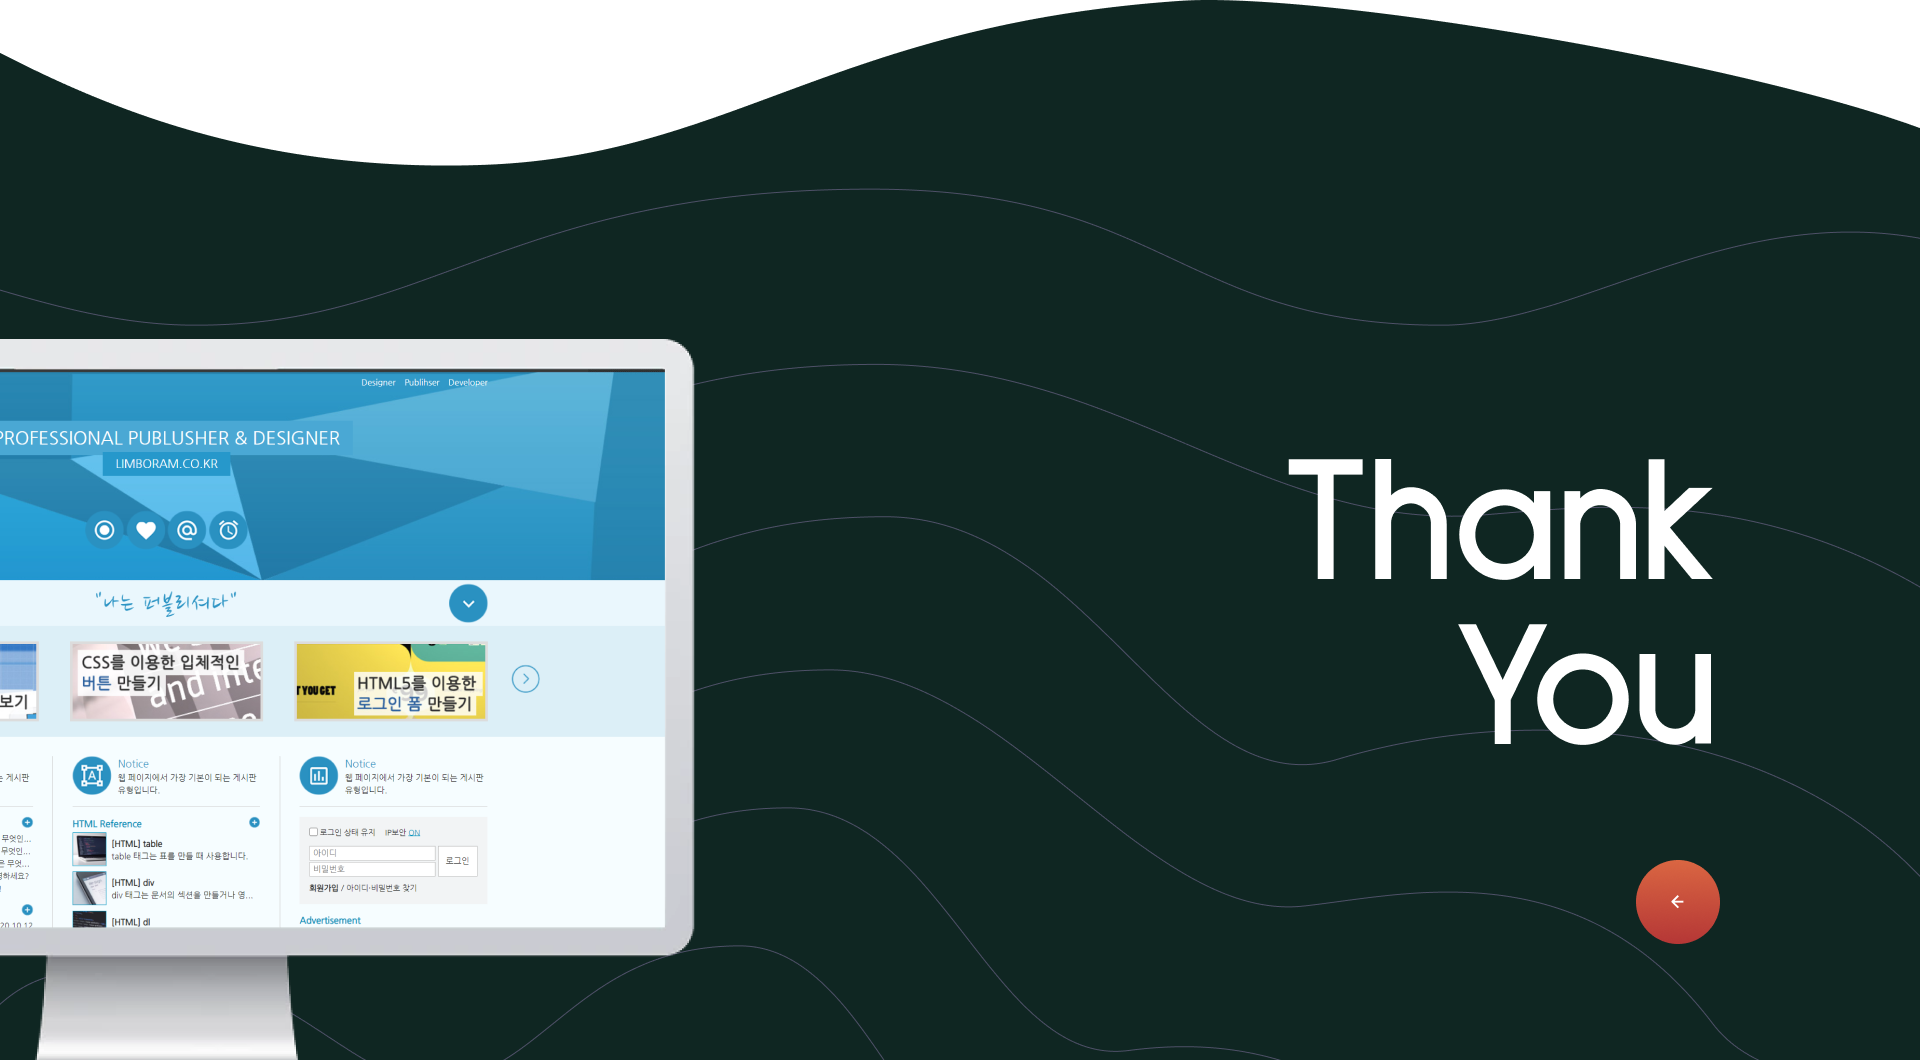
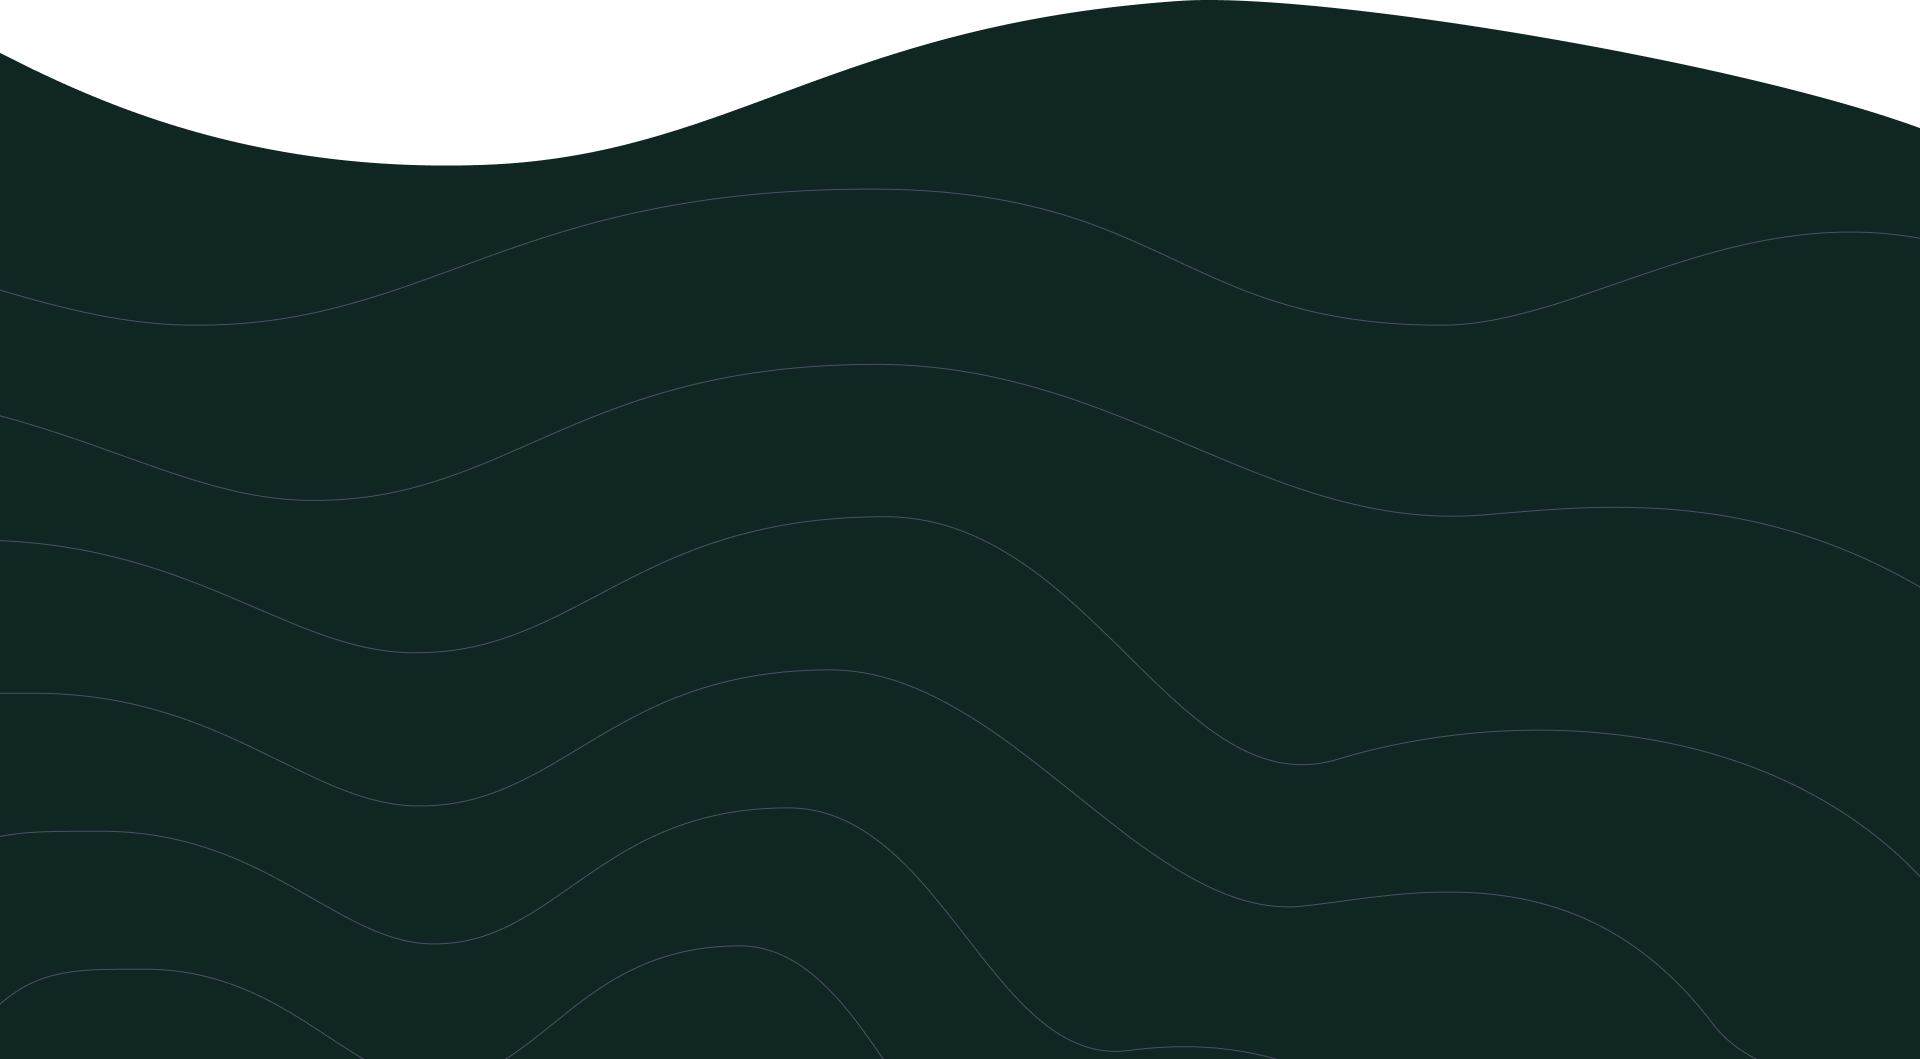
2020.12.29.

diff --git a/portfolio/site.html b/portfolio/site.html
@@ -20,7 +20,7 @@
 
         /* content */
         #content {position: relative;}
-        #content img {position: absolute; margin-top: -20%; right: 0; width: 28%;}
+        #content img {position: absolute; margin-top: -15%; right: 0; width: 28%;}
         .content1 {display: flex;}
         .content1 .cont_left {flex: 1 1 50%;}
         .cont_left img {left: 0; margin-top: 40%; width: 80%;}
@@ -64,7 +64,14 @@
         .content4 .cont_left_tit a {padding: 1.2% 2.5%;}
 
         /* footer */
-        .footer img {background-size: cover; width: 100%; margin-top: 20%;}
+        .footer {position: relative; background-image: url(img/s_footer.png); background-size: cover; height: 750px; margin-top: 10%;}
+        .footer img {position: absolute; left: 0; width: 35%; bottom: 0%;}
+        .footer h1 {color: #fff; text-align: right; font-size: 7.5rem; padding-top: 25%; font-family: 'Sulphur Point', sans-serif; line-height: 1;}
+        .footer a {background-image: linear-gradient(105deg, rgb(193, 33, 47), rgb(241, 104, 53)); position: absolute; padding: 1rem 1.2rem; right: 0%; bottom: 10%; font-weight: bold; border-radius: 50%;}
+        .footer ul {display: flex; color: #fff; font-family: 'Poppins', sans-serif; font-size: 1.5rem; font-weight: bold; margin-top: 10%;}
+        .footer ul li {margin-left: 6%;}
+        .footer ul li:first-child {margin-left: 0%;}
+        .footer ul li:last-child {font-size: 1.1rem; margin-top: 0.4%;}
     </style>
 </head>
 <body>
@@ -111,7 +118,7 @@
                 <div class="cont_left">
                     <h3>RESPONSIVE</h3>
                     <div class="cont_left_tit">
-                        <p>하나의 웹사이트에서 PC, 스마트폰, 태블릿PC 등<br> 접속하는 디스플레이의 종류에 따라 화면의 크기가<br> 자동으로 변하도록 만든 반응형 사이트 입니다.<br> 디바이스의 해상도에 따라 이미지를 다르게 보여질<br> 수 있게 하였고, css로 마우스오버 효과를 추가하였습니다.</p>
+                        <p>하나의 웹사이트에서 PC, 스마트폰, 태블릿PC 등 접속하는 디스<br>플레이의 종류에 따라 화면의 크기가 자동으로 변하도록 만든 반응<br>형 사이트 입니다. 디바이스의 해상도에 따라 이미지를 다르게 보여<br>질 수 있게 하였고, css로 마우스오버 효과를 추가하였습니다.</p>
                         <div class="btn">
                             <a href="#">FIGMA VIEW</a>
                             <a href="#">SITE VIEW</a>
@@ -159,9 +166,15 @@
             </div>
         </div>
         <!-- //contents -->
-        <div id="footer">
-            <div class="footer">
-                <img class="footer" src="img/s_footer.png" alt="">
+        <div class="footer">
+            <img src="img/simg6.png" alt="">
+            <div class="container">
+                <h1>Thank<br>You</h1>
+                <a href="#">←</a>
+                <ul>
+                    <li>PORTFOLIO</li>
+                    <li>SITE</li>
+                </ul>
             </div>
         </div>
         <!-- //footer -->

diff --git a/portfolio/index2.html b/portfolio/index2.html
@@ -98,7 +98,7 @@
                                     <li>MEGABOX</li>
                                     <li>NAVER CLOVA</li>
                                 </ul>
-                                <a href="#">→</a>
+                                <a href="site.html">→</a>
                             </div>
                             <div class="tit_right">
                                 <img src="img/mimg1.png" alt="">
